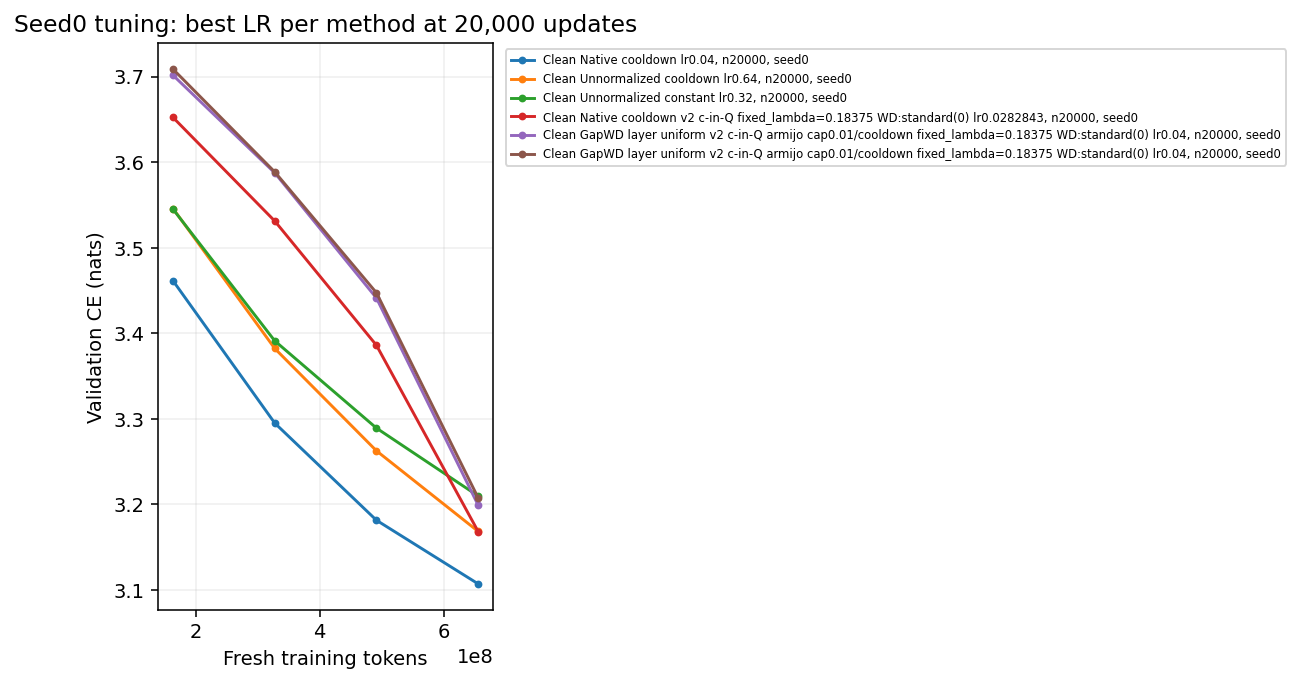
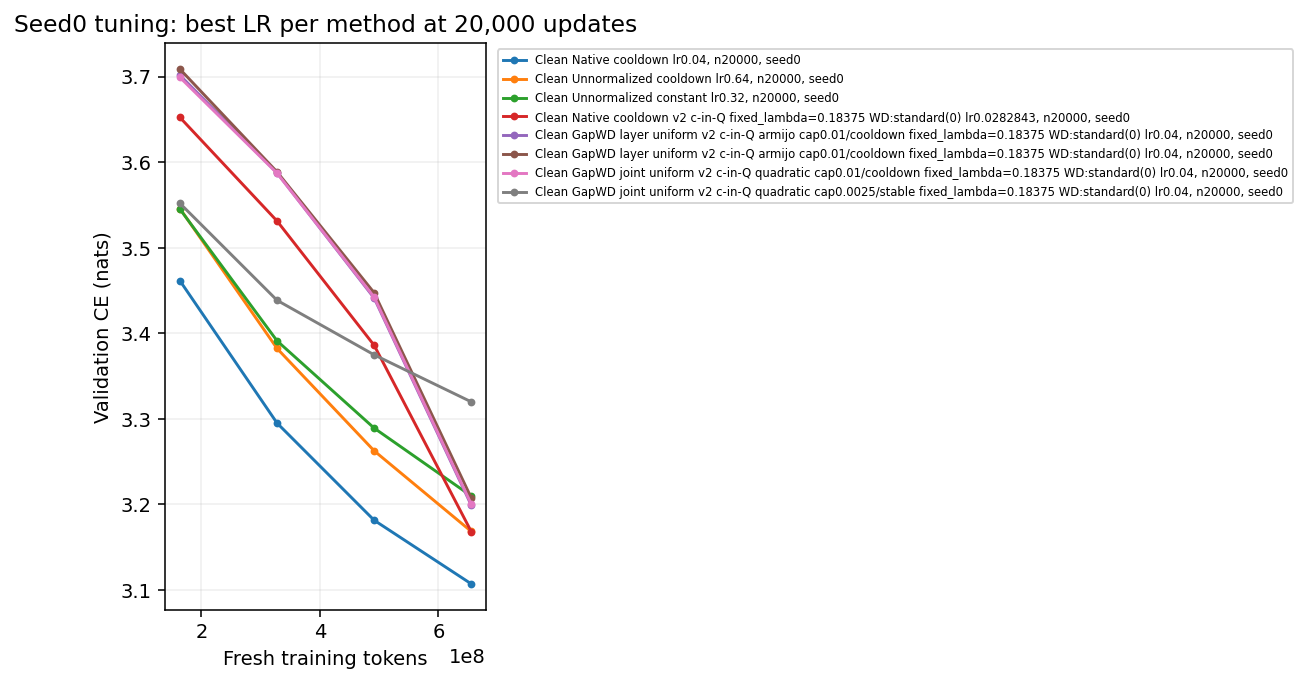
Update live Muon experiment results

diff --git a/research/unnormalized_muon/RESULTS.md b/research/unnormalized_muon/RESULTS.md
@@ -77,6 +77,8 @@ One B300 per job. CE is token cross-entropy (nats); lower is better. Rows with d
 | um-lens-long-control-1 | Clean Native cooldown v2 c-in-Q fixed_lambda=0.18375 WD:standard(0) | 20000 | 0 | 0.0282843 | 3.168332 | 0.960556 | — | 786.20 |
 | um-lens-long-creative-0 | Clean GapWD layer uniform v2 c-in-Q armijo cap0.01/cooldown fixed_lambda=0.18375 WD:standard(0) | 20000 | 0 | 0.04 | 3.199090 | 0.969892 | — | 1834.23 |
 | um-lens-long-creative-1 | Clean GapWD layer uniform v2 c-in-Q armijo cap0.01/cooldown fixed_lambda=0.18375 WD:standard(0) | 20000 | 0 | 0.04 | 3.207725 | 0.972496 | — | 1837.54 |
+| um-lens-long-joint-cooldown | Clean GapWD joint uniform v2 c-in-Q quadratic cap0.01/cooldown fixed_lambda=0.18375 WD:standard(0) | 20000 | 0 | 0.04 | 3.200458 | 0.970313 | — | 1931.00 |
+| um-lens-long-joint-stable | Clean GapWD joint uniform v2 c-in-Q quadratic cap0.0025/stable fixed_lambda=0.18375 WD:standard(0) | 20000 | 0 | 0.04 | 3.319987 | 1.006466 | — | 1867.68 |
 | um-lens-main-control-lr0p02 | Clean Native cooldown v2 c-in-Q fixed_lambda=0.18375 WD:standard(0) | 2000 | 0 | 0.02 | 3.568986 | 1.081936 | — | 141.52 |
 | um-lens-main-control-lr0p04 | Clean Native cooldown v2 c-in-Q fixed_lambda=0.18375 WD:standard(0) | 2000 | 0 | 0.04 | 3.554822 | 1.077668 | — | 133.67 |
 | um-lens-main-control-lr0p08 | Clean Native cooldown v2 c-in-Q fixed_lambda=0.18375 WD:standard(0) | 2000 | 0 | 0.08 | 3.586261 | 1.087199 | — | 139.40 |
@@ -169,7 +171,7 @@ One B300 per job. CE is token cross-entropy (nats); lower is better. Rows with d
 
 Review of um-fw-diagnostic-001: Compiled training f0 compared against functional candidate losses; vanishing-step mismatch2-4e-5 exceeded tolerance, leading to curvature1e186 and45 skipped steps. Replaced by paired functional reference and candidates; retain all645 measured forwards and GPUcost.
 
-Conservative charged/reserved total: 18.0979 / 30 B300 GPU-hours. Includes prior smoke/failed attempts and current maximum-duration reservations. Six-slot central queue; one B300 per run.
+Conservative charged/reserved total: 17.5780 / 30 B300 GPU-hours. Includes prior smoke/failed attempts and current maximum-duration reservations. Six-slot central queue; one B300 per run.
 
 CLEAN geometry disables row equilibration and NorMuon. Original clean runs use zero matrix decay; new WD runs explicitly label standard or cautious decay and their CLI coefficient. Same five Polar Express steps and Frobenius correction; scale by the per-matrix nonnegative FP32 inner product of the native Nesterov input with the NS/Frobenius direction. Shape scaling occurs once outside the scalar. Legacy rows retain production extras and must be compared separately. Constant schedule changes only matrix LR; auxiliary schedules and momentum remain matched.
 
